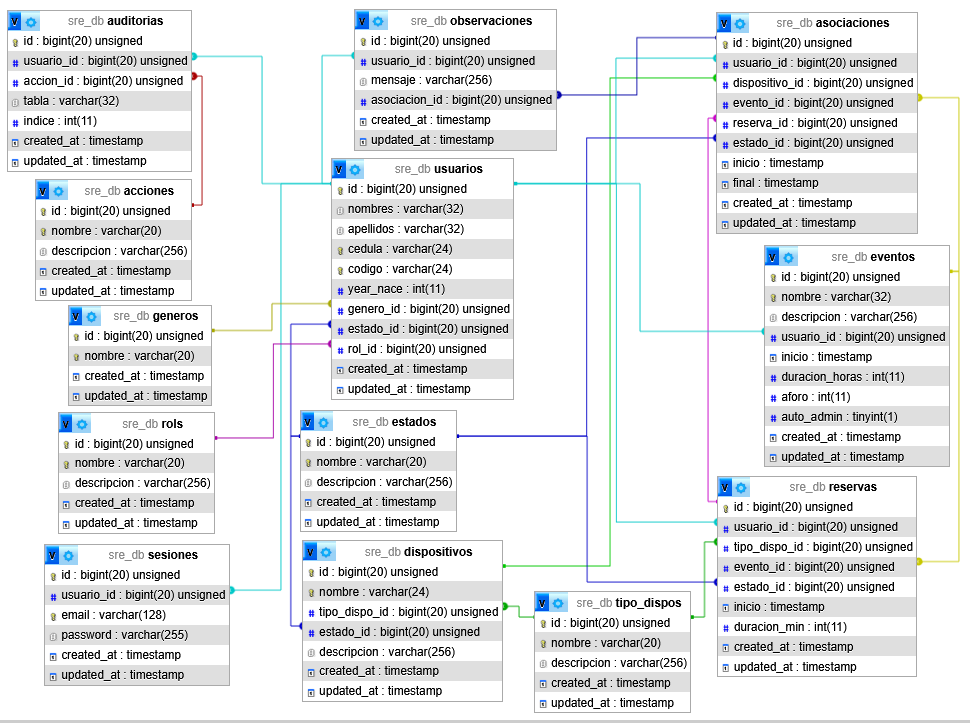
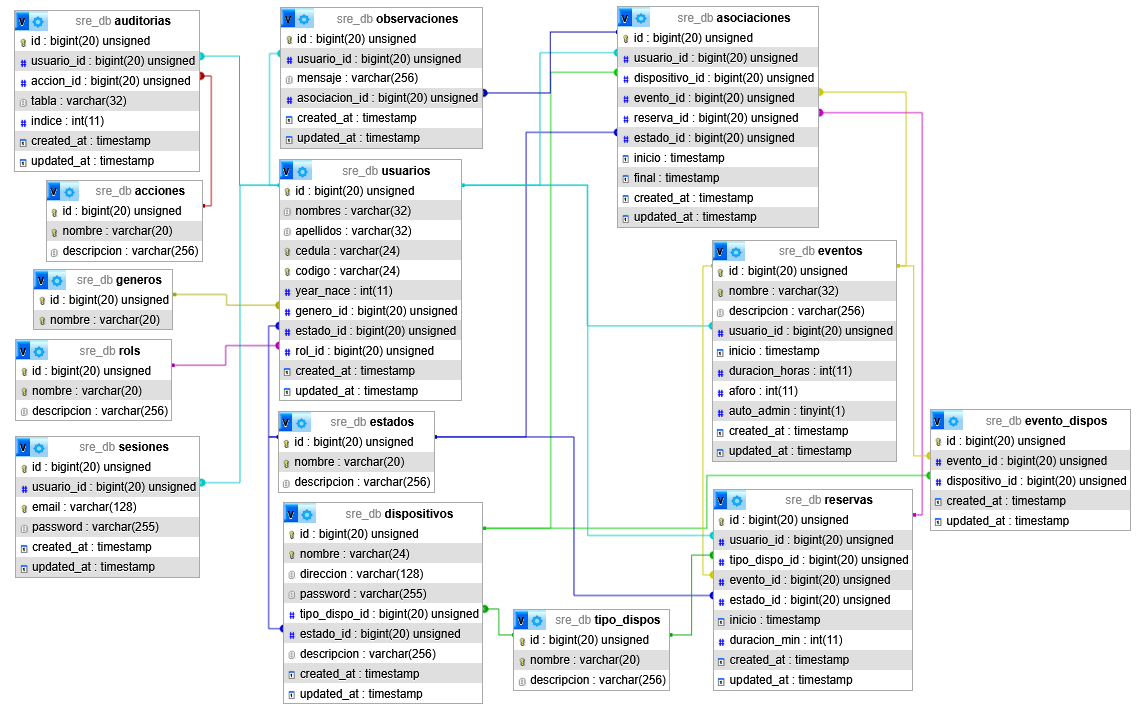
DB mejor estructurada

diff --git a/database/migrations/2026_10_30_142429_create_evento_dispos_table.php b/database/migrations/2026_10_30_142429_create_evento_dispos_table.php
@@ -1,0 +1,29 @@
+<?php
+
+use Illuminate\Database\Migrations\Migration;
+use Illuminate\Database\Schema\Blueprint;
+use Illuminate\Support\Facades\Schema;
+
+return new class extends Migration
+{
+    /**
+     * Run the migrations.
+     */
+    public function up(): void
+    {
+        Schema::create('evento_dispos', function (Blueprint $table) {
+            $table->id();
+            $table->foreignId('evento_id')->constrained('eventos')->restrictOnDelete();
+            $table->foreignId('dispositivo_id')->constrained('dispositivos')->restrictOnDelete();
+            $table->timestamps();
+        });
+    }
+
+    /**
+     * Reverse the migrations.
+     */
+    public function down(): void
+    {
+        Schema::dropIfExists('evento_dispos');
+    }
+};

diff --git a/database/migrations/2026_10_29_191038_create_asociaciones_table.php b/database/migrations/2026_10_29_191038_create_asociaciones_table.php
@@ -14,7 +14,8 @@ return new class extends Migration
         Schema::create('asociaciones', function (Blueprint $table) {
             $table->id();
             $table->foreignId('usuario_id')->constrained('usuarios')->restrictOnDelete();
-            $table->foreignId('dispositivo_id')->constrained('dispositivos')->restrictOnDelete();
+            $table->foreignId('dispositivo_id')->nullable()->default(null)->
+                constrained('dispositivos')->restrictOnDelete();
             $table->foreignId('evento_id')->nullable()->default(null)->
                 constrained('eventos')->restrictOnDelete();
             $table->foreignId('reserva_id')->nullable()->default(null)->

diff --git a/database/migrations/2026_10_29_190855_create_dispositivos_table.php b/database/migrations/2026_10_29_190855_create_dispositivos_table.php
@@ -14,6 +14,8 @@ return new class extends Migration
         Schema::create('dispositivos', function (Blueprint $table) {
             $table->id();
             $table->string('nombre', 24)->unique();
+            $table->string('direccion', 128)->default('');
+            $table->string('password', 255)->default('');
             $table->foreignId('tipo_dispo_id')->constrained('tipo_dispos')->restrictOnDelete();
             $table->foreignId('estado_id')->constrained('estados')->restrictOnDelete();
             $table->string('descripcion', 256);

diff --git a/database/migrations/2026_10_29_190940_create_sesiones_table.php b/database/migrations/2026_10_29_190940_create_sesiones_table.php
@@ -13,7 +13,8 @@ return new class extends Migration
     {
         Schema::create('sesiones', function (Blueprint $table) {
             $table->id();
-            $table->foreignId('usuario_id')->constrained('usuarios')->restrictOnDelete();
+            $table->foreignId('usuario_id')->unique()->
+                constrained('usuarios')->restrictOnDelete();
             $table->string('email', 128)->unique();
             $table->string('password', 255)->default('');
             $table->timestamps();

diff --git a/database/migrations/2026_10_29_190736_create_generos_table.php b/database/migrations/2026_10_29_190736_create_generos_table.php
@@ -14,7 +14,6 @@ return new class extends Migration
         Schema::create('generos', function (Blueprint $table) {
             $table->id();
             $table->string('nombre', 20)->unique();
-            $table->timestamps();
         });
     }
 

diff --git a/database/migrations/2026_10_29_190721_create_estados_table.php b/database/migrations/2026_10_29_190721_create_estados_table.php
@@ -15,7 +15,6 @@ return new class extends Migration
             $table->id();
             $table->string('nombre', 20)->unique();
             $table->string('descripcion', 256);
-            $table->timestamps();
         });
     }
 

diff --git a/database/migrations/2026_10_29_190730_create_rols_table.php b/database/migrations/2026_10_29_190730_create_rols_table.php
@@ -15,7 +15,6 @@ return new class extends Migration
             $table->id();
             $table->string('nombre', 20)->unique();
             $table->string('descripcion', 256);
-            $table->timestamps();
         });
     }
 

diff --git a/database/migrations/2026_10_29_190746_create_acciones_table.php b/database/migrations/2026_10_29_190746_create_acciones_table.php
@@ -15,7 +15,6 @@ return new class extends Migration
             $table->id();
             $table->string('nombre', 20)->unique();
             $table->string('descripcion', 256);
-            $table->timestamps();
         });
     }
 

diff --git a/database/migrations/2026_10_29_190809_create_tipo_dispos_table.php b/database/migrations/2026_10_29_190809_create_tipo_dispos_table.php
@@ -15,7 +15,6 @@ return new class extends Migration
             $table->id();
             $table->string('nombre', 20)->unique();
             $table->string('descripcion', 256);
-            $table->timestamps();
         });
     }
 

diff --git a/README.md b/README.md
@@ -1,22 +1,54 @@
 # SRE Gamer UC
 
+## Base de Datos
+
+`usuarios` incluye jugadores y administradores, de la tabla `generos` y `roles` obtiene información poblacional, `sesiones` es opcional cuando son usuarios registrados con correo y contraseña para inicios de sesión, ahí estarán las credenciales, pero por ejemplo, los roles invitado no deberían tener registro en sesión, siempre `sesiones` y `usuarios` es 1:1.
+
+La tabla `estados` cuenta con flags para identificar la máquina de estados de varias tablas.
+
+`dispositivos` son los equipos de la sala, como computadores, consolas, etc, y `tipo_dispos` son los tipos de dispositivos que puede haber, por ejemplo, el PC1 es tipo PC, las reservaciónes se hacen por tipo y las asociaciónes por dispositivo, además, dispositivos tiene dos campos opcionales (direccion y password) en caso de que sea posible tener por ejemplo direcciónes IP para comandos remotos.
+
+La tabla `auditorias` identifica qué usuarios ha hecho `acciones` sobre tablas y llaves primarias de sus registros, para seguimiento de deciciónes administrativas.
+
+`asociaciones` es cuando un usuario jugador está actualmente usando una máquina, su fecha inicio es establecida al crear la asociación y su fecha final es colocada cuando se cierra la asociación (estado), solo puede haber una asociación activa por usuario, aunque habrá más inactivas en el pasado, además en caso de estar asociado a un evento, puede no necesariamente estar asociado a un dispositivo.
+
+Las `observaciones` son comentarios dejados por un administrador, ya sea referenciados a una asociación o no, por ejemplo, el jugador dijo que un gamepad estaba malo durante la revisión del equipo, entonces su asociación se hace con esa observación, o si el administrador se dió cuenta después, edita la asociación o crea una observación sin asociación.
+
+`reservas` es cuando un usuario pide la sala a futuro, el inicio dice cuándo y la duración define la franja en minutos, los tipos de dispositivos dependen entonces de la disponibilidad de los mismos, según la tabla `dispositivos` y su estado, cuando se reserva puede entrar en colisión con otras reservas y ser negada, pero tamién con asociaciónes siempre que estas hayan cumplido con su tiempo mínimo de juego (constante global).
+
+Los `eventos` son similares a las reservas, pero pudiendo tener un nombre y descripción, un usuario a cargo, un apróximado de la cantidad de invitados (aforo), y un flag (auto_admin) que dice si es permitido o no para un jugador, hacer reservas y asociaciónes vinculadas internamente a ese evento, en caso negativo, se entiende que los encargados del evento administrarán los tiempos de uso de los equipos, aún así, los invitados al evento deberán registrarse asociados al evento más no a un dispositivo concreto.
+
+Luego los eventos tienen `evento_dispos` que son los dispositivos de la sala que están reservados para un evento M:M.
+
+Finalmente, el sistema hace CRUD por parte de los usuarios administradores, para:
+
+- `usuarios`, que a veces afecta `sesiones`.
+- `dispositivos`.
+- `asociaciones` que a veces afecta a `observaciones`.
+- `reservas`.
+- `eventos` que afecta a `evento_dispos`.
+- `observaciones` sin asociaciónes.
+
+De manera automática se llena `auditorías`.
+
 ## Instalar en Local
 
-1. clona el repositorio GitHub a una espacio local
-2. `composer install` completa el proyecto Laravel
-3. `Copy-Item .env.example .env` obtiene de nuevo .env desde su ejemplo
-4. configura .env con las credenciales de la DB por ejemplo para XAMPP
-5. `php artisan key:generate` crea la llave local
-6. `php artisan migrate` crea las tablas
-7. `php artisan db:seed` llena los datos iniciales
-8. `npm ci` o `npm install` dependiendo si existe package-lock.json o si no
-9. `npm run build` para compilar el Frontend
-10. `php artisan serve` ejecutar el servidor
-11. `php artisan optimize:clear` opcional, si hay problemas de caché
+1. clona el repositorio GitHub a una espacio local.
+2. `composer install` completa el proyecto Laravel.
+3. `Copy-Item .env.example .env` obtiene de nuevo .env desde su ejemplo.
+4. configura .env con las credenciales de la DB por ejemplo para XAMPP.
+5. `php artisan key:generate` crea la llave local.
+6. crear en MySQL (ej: XAMPP phpmyadmin), la DB nombrada en .env.
+7. `php artisan migrate:fresh` destruye las tablas y las re-crea.
+8. `php artisan db:seed` llena los datos iniciales.
+9. `npm ci` o `npm install` dependiendo si existe package-lock.json o si no.
+10. `npm run build` para compilar el frontend.
+11. `php artisan serve` ejecutar el servidor.
+12. `php artisan optimize:clear` opcional, si hay problemas de caché.
 
 ## Desarrollador
 
-- Omar Jordan Jordan (Omwekiatl)
+- Ing. Omar Jordan Jordan (Omwekiatl).
 
 ## License
 

diff --git a/devlog.md b/devlog.md
@@ -1,0 +1,41 @@
+# Devlog para SRE Gamer UC
+
+## Desarrolladores
+
+- Om, Ing. Omar Jordan Jordan (Omwekiatl).
+
+## Historial
+
+23/10/2026 Vi:
+
+- Om, asignación del proyecto, socialización de necesidades.
+- Om, creación de documento con requerimientos y casos de uso.
+
+26/10/2026 Lu:
+
+- Om, adelantos en el documento, analizando casos conflictivos.
+- Om, presentación y retroalimentación de los análisis y diseño.
+- Om, solución de conflictos, diseño final para empezar a hacer mockups.
+- Om, inicio de mockup dinámico en Godot.
+
+27/10/2026 Ma:
+
+- Om, desarrollo del mockup dinámico en Godot, con algo de código.
+
+28/10/2026 Mi:
+
+- Om, finalización del mockups dinámico en Godot.
+- Om, creación de la DB tentativa en phpmyadmin, para presentarla.
+- Om, presentación y retroalimentación de DB y mockup dinámico.
+
+29/10/2026 Ju:
+
+- Om, actualización de XAMPP con su PHP.
+- Om, creación del proyecto Laravel.
+- Om, comienzo de creación de migraciónes de DB y seeders.
+- Om, guardado del proyecto en repositorio GitHub.
+
+30/10/2026 Vi:
+
+- Om, correcciónes de DB y volver a migrar y seeders.
+- Om, escritura de la descripción de la DB.
